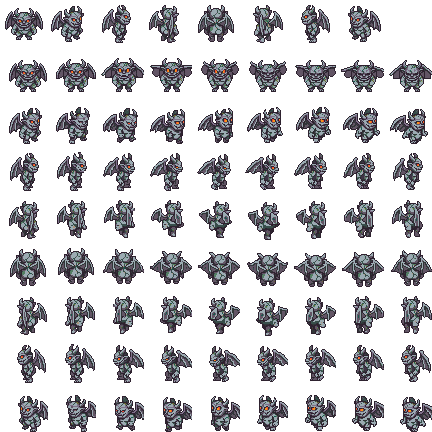
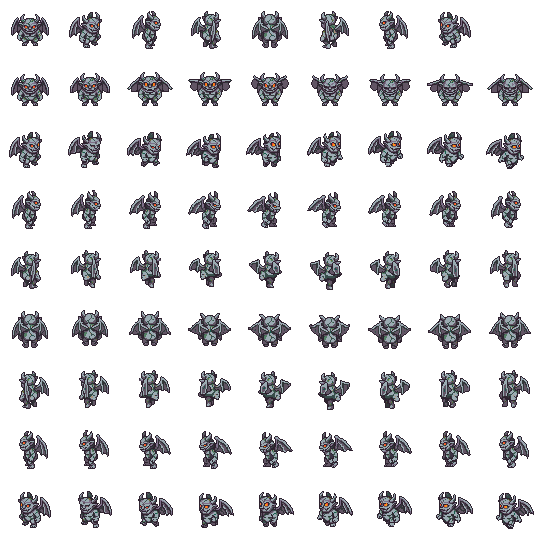
v8.7.2 : animations PixelLab non rognées, corbeaux de face
Claude-Session: https://claude.ai/code/session_01SUBLMYy1BFvxzw1h17Vwcu

diff --git a/src/actors.js b/src/actors.js
@@ -46,13 +46,13 @@ function drawPerson(x, y, L, t) {
 }
 
 // PNJ PixelLab : 48 × 48, 8 directions, même échelle que les héros (÷ 1,4) ; les enfants un peu plus petits
-const PL_NPCS = { garde: { foot: 1 }, arthur: { foot: 0, child: 0.84 }, jules: { foot: 1, child: 0.84 }, lila: { foot: 3, child: 0.84 }, fantome: { foot: 2 }, epiciere: { foot: 2 }, sage: { foot: 2, anim: 8 }, pierrette: { foot: 1 }, fossoyeur: { foot: 1 }, coquillages: { foot: 1 }, hugo: { foot: 2 }, herboriste: { foot: 3 }, bucheron: { foot: 1 }, gnome: { foot: 2, child: 0.6 }, firmin: { foot: 1 }, gaelle: { foot: 1 }, artificiere: { foot: 1 }, gardien: { foot: 2 }, ermite: { foot: 1 }, vagabond: { foot: 0 }, pauline: { foot: 1, child: 0.78 }, odette: { foot: 2 }, lavandiere: { foot: 1 }, crieur: { foot: 1, anim: 9 } };
+const PL_NPCS = { garde: { foot: 1 }, arthur: { foot: 0, child: 0.84 }, jules: { foot: 1, child: 0.84 }, lila: { foot: 3, child: 0.84 }, fantome: { foot: 2 }, epiciere: { foot: 2 }, sage: { foot: 10, anim: 8, c: 64 }, pierrette: { foot: 1 }, fossoyeur: { foot: 1 }, coquillages: { foot: 1 }, hugo: { foot: 2 }, herboriste: { foot: 3 }, bucheron: { foot: 1 }, gnome: { foot: 2, child: 0.6 }, firmin: { foot: 1 }, gaelle: { foot: 1 }, artificiere: { foot: 1 }, gardien: { foot: 2 }, ermite: { foot: 1 }, vagabond: { foot: 0 }, pauline: { foot: 1, child: 0.78 }, odette: { foot: 2 }, lavandiere: { foot: 1 }, crieur: { foot: 11, anim: 9, c: 68 } };
 const plDir = (dx, dy) => (Math.round(Math.atan2(dx, dy) / (Math.PI / 4)) + 8) % 8; // 0 face, 2 droite, 4 dos, 6 gauche
 function drawPL(key, x, y, di, t, alpha = 1, scale = 1) {
   const im = IMG['pl_' + key], m = PL_NPCS[key]; if (!im || !m) return false;
-  const k = scale * (m.child || 1) / 1.4, s = 48 * k; let sx = di * 48, sy = 0;
-  if (m.anim && di === 0) { sx = (Math.floor(t * 6) % m.anim) * 48; sy = 48; }
-  ctx.globalAlpha = alpha; ctx.drawImage(im, sx, sy, 48, 48, half(x - s / 2), half(y - s + m.foot * k), s, s); ctx.globalAlpha = 1; return true;
+  const c = m.c || 48, k = scale * (m.child || 1) / 1.4, s = c * k; let sx = di * c, sy = 0;
+  if (m.anim && di === 0) { sx = (Math.floor(t * 6) % m.anim) * c; sy = c; }
+  ctx.globalAlpha = alpha; ctx.drawImage(im, sx, sy, c, c, half(x - s / 2), half(y - s + m.foot * k), s, s); ctx.globalAlpha = 1; return true;
 }
 // une case d'une planche (boss, monstres) posée par les pieds en (x, y) ; k : échelle (0,5 = 1 pixel d'image par pixel d'écran)
 // o : { flip, rot, alpha, foot (marge sous les pieds, en px d'image), flash (silhouette blanche quand il est touché) }
@@ -66,7 +66,7 @@ function drawCell(key, col, row, cw, ch, x, y, k, o = {}) {
   ctx.restore(); return true;
 }
 // monstres PixelLab (assets/mobs/<clé>.png) : ligne 0 = 8 directions au repos, lignes 1-8 = animation par direction, ligne 9 = pose spéciale
-const MOB_SPR = { raccoon: { n: 8, foot: 3 }, bat: { n: 9, foot: 6 }, shadow: { n: 0, foot: 5 }, wisp: { n: 9, foot: 6 }, squirrel: { n: 8, foot: 4 }, crow: { n: 9, foot: 5 }, gnome: { n: 8, foot: 3, pose: 1 }, spider: { n: 8, foot: 3 }, crab: { n: 8, foot: 6 }, eel: { n: 0, foot: 4, pose: 1 }, skeleton: { n: 8, foot: 1, pose: 1 }, gargoyle: { n: 9, foot: 5 } };
+const MOB_SPR = { raccoon: { c: 64, n: 8, foot: 11 }, bat: { c: 68, n: 9, foot: 16 }, shadow: { c: 48, n: 0, foot: 5 }, wisp: { c: 52, n: 9, foot: 8 }, squirrel: { c: 64, n: 8, foot: 12 }, crow: { c: 64, n: 9, foot: 13 }, gnome: { c: 60, n: 8, foot: 9, pose: 1 }, spider: { c: 64, n: 8, foot: 11 }, crab: { c: 60, n: 8, foot: 12 }, eel: { c: 48, n: 0, foot: 4, pose: 1 }, skeleton: { c: 68, n: 8, foot: 11, pose: 1 }, gargoyle: { c: 60, n: 9, foot: 11 } };
 // o : { dir (sinon : sens du déplacement, ou vers le héros), anim (animer même immobile), pose, fps, alt (hauteur de vol), scale, alpha, sh (ombre) }
 function drawMob(e, key, o = {}) {
   const m = MOB_SPR[key]; if (!m || !IMG['mob_' + key]) return false;
@@ -77,7 +77,7 @@ function drawMob(e, key, o = {}) {
   let col = e._di, row = 0;
   if (o.pose && m.pose) row = 9; else if (m.n && (mv || o.anim)) { row = 1 + e._di; col = Math.floor((e.t || 0) * (o.fps || 10)) % m.n; }
   if (o.sh !== 0) ell(e.x, e.y, o.sh || 6, 2, 'rgba(0,0,0,.3)');
-  drawCell('mob_' + key, col, row, 48, 48, e.x, e.y - (o.alt || 0), (o.scale || 1) / 1.4, { foot: m.foot, flash: e.flash > 0, alpha: o.alpha });
+  drawCell('mob_' + key, col, row, m.c, m.c, e.x, e.y - (o.alt || 0), (o.scale || 1) / 1.4, { foot: m.foot, flash: e.flash > 0, alpha: o.alpha });
   if (e.stunT > 0) for (let i = 0; i < 3; i++) { const a = (e.t || 0) * 5 + i * 2.1; R(half(e.x + Math.cos(a) * 7), half(e.y - (o.alt || 0) - 34 + Math.sin(a) * 2), 2, 2, i % 2 ? '#ffe27a' : '#fff'); }
   return true;
 }

diff --git a/index.html b/index.html
@@ -26,39 +26,39 @@
 <body>
 <canvas id="c"></canvas>
 <div id="rotate"><span>⟳</span>Tourne ton téléphone<br>en mode paysage</div>
-<script src="src/core.js?v=8.7.1"></script>
-<script src="src/bus.js?v=8.7.1"></script>
-<script src="src/input.js?v=8.7.1"></script>
-<script src="src/systems/save.js?v=8.7.1"></script>
-<script src="src/systems/heroes.js?v=8.7.1"></script>
-<script src="src/systems/inventory.js?v=8.7.1"></script>
-<script src="src/systems/wallet.js?v=8.7.1"></script>
-<script src="src/systems/shop.js?v=8.7.1"></script>
-<script src="src/systems/story.js?v=8.7.1"></script>
-<script src="src/systems/loot.js?v=8.7.1"></script>
-<script src="src/world.js?v=8.7.1"></script>
-<script src="src/entities.js?v=8.7.1"></script>
-<script src="src/objects.js?v=8.7.1"></script>
-<script src="src/actors.js?v=8.7.1"></script>
-<script src="src/interiors.js?v=8.7.1"></script>
-<script src="src/bois.js?v=8.7.1"></script>
-<script src="src/tools.js?v=8.7.1"></script>
-<script src="src/mines.js?v=8.7.1"></script>
-<script src="src/lac.js?v=8.7.1"></script>
-<script src="src/temple.js?v=8.7.1"></script>
-<script src="src/tower.js?v=8.7.1"></script>
-<script src="src/castle.js?v=8.7.1"></script>
-<script src="src/quests.js?v=8.7.1"></script>
-<script src="src/rpg.js?v=8.7.1"></script>
-<script src="src/dungeon.js?v=8.7.1"></script>
-<script src="src/cave.js?v=8.7.1"></script>
-<script src="src/maps.js?v=8.7.1"></script>
-<script src="src/overworld.js?v=8.7.1"></script>
-<script src="src/houses.js?v=8.7.1"></script>
-<script src="src/areas.js?v=8.7.1"></script>
-<script src="src/monde.js?v=8.7.1"></script>
-<script src="src/quetes.js?v=8.7.1"></script>
-<script src="src/ui.js?v=8.7.1"></script>
-<script src="src/game.js?v=8.7.1"></script>
+<script src="src/core.js?v=8.7.2"></script>
+<script src="src/bus.js?v=8.7.2"></script>
+<script src="src/input.js?v=8.7.2"></script>
+<script src="src/systems/save.js?v=8.7.2"></script>
+<script src="src/systems/heroes.js?v=8.7.2"></script>
+<script src="src/systems/inventory.js?v=8.7.2"></script>
+<script src="src/systems/wallet.js?v=8.7.2"></script>
+<script src="src/systems/shop.js?v=8.7.2"></script>
+<script src="src/systems/story.js?v=8.7.2"></script>
+<script src="src/systems/loot.js?v=8.7.2"></script>
+<script src="src/world.js?v=8.7.2"></script>
+<script src="src/entities.js?v=8.7.2"></script>
+<script src="src/objects.js?v=8.7.2"></script>
+<script src="src/actors.js?v=8.7.2"></script>
+<script src="src/interiors.js?v=8.7.2"></script>
+<script src="src/bois.js?v=8.7.2"></script>
+<script src="src/tools.js?v=8.7.2"></script>
+<script src="src/mines.js?v=8.7.2"></script>
+<script src="src/lac.js?v=8.7.2"></script>
+<script src="src/temple.js?v=8.7.2"></script>
+<script src="src/tower.js?v=8.7.2"></script>
+<script src="src/castle.js?v=8.7.2"></script>
+<script src="src/quests.js?v=8.7.2"></script>
+<script src="src/rpg.js?v=8.7.2"></script>
+<script src="src/dungeon.js?v=8.7.2"></script>
+<script src="src/cave.js?v=8.7.2"></script>
+<script src="src/maps.js?v=8.7.2"></script>
+<script src="src/overworld.js?v=8.7.2"></script>
+<script src="src/houses.js?v=8.7.2"></script>
+<script src="src/areas.js?v=8.7.2"></script>
+<script src="src/monde.js?v=8.7.2"></script>
+<script src="src/quetes.js?v=8.7.2"></script>
+<script src="src/ui.js?v=8.7.2"></script>
+<script src="src/game.js?v=8.7.2"></script>
 </body>
 </html>

diff --git a/src/bois.js b/src/bois.js
@@ -72,7 +72,7 @@ class Boar extends Raccoon { // sanglier : charge plus fort, encaisse plus
     const moving = this.vx || this.vy, f = moving ? Math.floor(this.t * (this.state === 'charge' ? 16 : 8)) % 2 : 0, wb = this.state === 'warn' ? Math.sin(this.t * 60) * 0.5 : 0, fl = this.flash > 0;
     if (IMG.mob_boar) { // sprite PixelLab : 8 directions, 4 images de course
       const di = moving ? plDir(this.vx, this.vy) : (this.face < 0 ? 6 : 2), run = moving ? 1 + Math.floor(this.t * (this.state === 'charge' ? 14 : 8)) % 4 : 0;
-      drawCell('mob_boar', di, run, 48, 48, this.x + wb, this.y, 1 / 1.4, { foot: 3, flash: fl });
+      drawCell('mob_boar', di, run, 64, 64, this.x + wb, this.y, 1 / 1.4, { foot: 11, flash: fl });
     } else
     hi(this.x + wb, this.y, this.face < 0, () => {
       const c = fl ? '#fff' : '#5a3a2a', d = fl ? '#fff' : '#3a2418', l = fl ? '#fff' : '#7a5a3a';
@@ -123,7 +123,7 @@ class Squirrel extends Enemy { // écureuil : garde ses distances et lance des g
 class Crow extends Bat { // corbeau
   constructor(x, y, room) { super(x, y, room); this.loot = 'bat'; this.poof = ['#1a1a22', '#3a3a4a', '#fff']; }
   draw() {
-    if (drawMob(this, 'crow', { anim: true, fps: 12, alt: this.alt + Math.sin(this.t * 8), sh: 5 })) return;
+    if (drawMob(this, 'crow', { dir: 0, anim: true, fps: 12, alt: this.alt + Math.sin(this.t * 8), sh: 5 })) return;
     ell(this.x, this.y, 5, 1.8, 'rgba(0,0,0,.3)');
     const f = Math.floor(this.t * 12) % 2, fl = this.flash > 0, b = fl ? '#fff' : '#1a1a22', wc = fl ? '#fff' : '#2a2a36';
     hi(this.x, this.y - this.alt + Math.sin(this.t * 8), this.face < 0, () => {

diff --git a/src/mines.js b/src/mines.js
@@ -161,7 +161,7 @@ class IronMole extends Enemy {
     const fl = this.flash > 0, oy = (1 - k) * (IMG.boss_mole ? 64 : 44);
     if (IMG.boss_mole) { // sprite PixelLab : tournée vers le héros, la vapeur fume quand elle est de face
       const P = G.player, di = P ? plDir(P.x - this.x, P.y - this.y) : 0, walk = di === 0;
-      drawCell('boss_mole', walk ? Math.floor(this.t * 8) % 8 : di, walk ? 1 : 0, 128, 128, this.x, this.y + oy, 0.5, { foot: 5, flash: fl });
+      drawCell('boss_mole', walk ? Math.floor(this.t * 8) % 8 : di, walk ? 1 : 0, 168, 168, this.x, this.y + oy, 0.5, { foot: 25, flash: fl });
       // les plaques d'armure qu'il reste à arracher au grappin
       const pl = (x, y, w, h) => { R(half(this.x + x), half(this.y + oy + y), w, h, fl ? '#fff' : '#6a6e7a'); R(half(this.x + x), half(this.y + oy + y), w, 1, '#c8ccd8'); R(half(this.x + x + 1), half(this.y + oy + y + 2), 1, 1, '#ffb040'); R(half(this.x + x + w - 2), half(this.y + oy + y + 2), 1, 1, '#ffb040'); R(half(this.x + x + 1), half(this.y + oy + y + h - 2), 1, 1, '#ffb040'); R(half(this.x + x + w - 2), half(this.y + oy + y + h - 2), 1, 1, '#ffb040'); };
       if (this.plates >= 3) pl(-20, -34, 8, 13);

diff --git a/sw.js b/sw.js
@@ -1,5 +1,5 @@
 // À chaque déploiement : changer VERSION ici, VERSION dans src/core.js et les ?v= dans index.html.
-const VERSION = 'v8.7.1';
+const VERSION = 'v8.7.2';
 const CACHE = 'escape-night2-' + VERSION;
 const PROPS = ['pine1', 'pine2', 'oak1', 'oak2', 'tent_r', 'tent_b', 'tent_y', 'campfire', 'campfire2', 'bush', 'log', 'rock', 'lamp', 'sign', 'fence', 'flowers', 'table'];
 const SCRIPTS = ['src/core.js', 'src/bus.js', 'src/input.js', 'src/systems/save.js', 'src/systems/heroes.js', 'src/systems/inventory.js', 'src/systems/wallet.js', 'src/systems/shop.js', 'src/systems/story.js', 'src/systems/loot.js', 'src/world.js', 'src/entities.js', 'src/objects.js', 'src/actors.js', 'src/interiors.js', 'src/bois.js', 'src/tools.js', 'src/mines.js', 'src/lac.js', 'src/temple.js', 'src/tower.js', 'src/castle.js', 'src/quests.js', 'src/rpg.js', 'src/dungeon.js', 'src/cave.js', 'src/maps.js', 'src/overworld.js', 'src/houses.js', 'src/areas.js', 'src/monde.js', 'src/quetes.js', 'src/ui.js', 'src/game.js'];

diff --git a/src/core.js b/src/core.js
@@ -1,6 +1,6 @@
 'use strict';
 // ---------- constantes ----------
-const VERSION = 'v8.7.1';
+const VERSION = 'v8.7.2';
 const W = 480, H = 270, SC = 2, TS = 16;
 const cv = document.getElementById('c');
 const ctx = cv.getContext('2d');

diff --git a/README.md b/README.md
@@ -27,6 +27,7 @@ PWA jouable en paysage sur mobile, ordinateur et manette.
 - **Donjon 6, le Château de Minuit** (défilé au sud-ouest du lac, éboulement à faire sauter) : 4 × 3 salles, horloges qui figent la salle, une aile par outil pour les cinq sceaux, le Chevalier Minuit (Papa ensorcelé), le Roi Minuit en 3 phases, le lever du soleil, le retour au camping et le générique.
 
 ## Version 8 : la grande mise à jour
+- **8.7.2** : animations PixelLab entières (elles étaient rognées à droite : chauves-souris, crieur, sage, monstres, taupe, sanglier) ; les corbeaux restent de face.
 - **8.7.1** : les 12 monstres en PixelLab (raton laveur, chauve-souris, ombre, feu follet, écureuil, corbeau, gnome mineur, araignée de cristal, crabe, anguille, chevalier squelette, gargouille) : 8 directions, animations de marche ou de vol, pose d'attaque pour le gnome, l'anguille et le chevalier ; leurs versions géantes suivent. Le crieur agite sa cloche.
 - **8.7.0** : un mini-boss garde la grande clé dans chaque donjon : Crabe géant (Temple, bassin de la cascade), Grande Gargouille (Tour), Garde noir (Château) ; le coffre n'apparaît qu'après leur défaite.
 - **8.6.9** : Mines : un mini-boss, la Chauve-souris de cristal, garde la grande clé dans la salle des poteaux (avec deux chauves-souris ; le coffre apparaît quand elle tombe).
